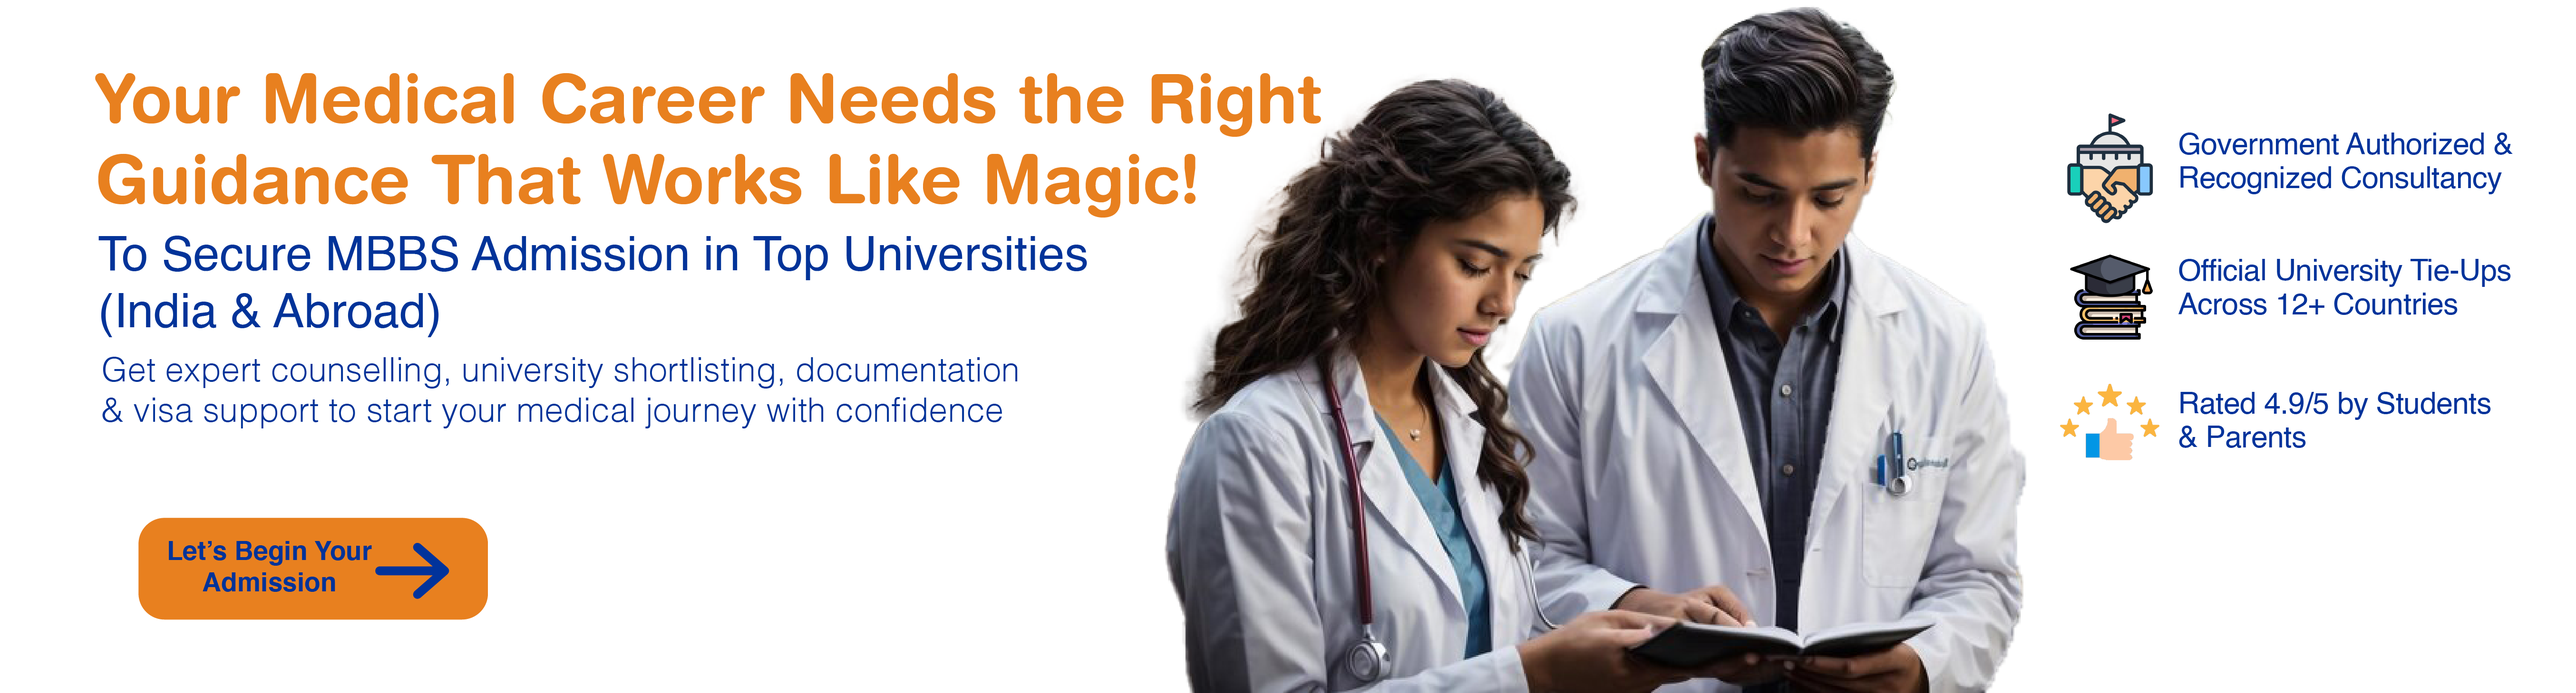
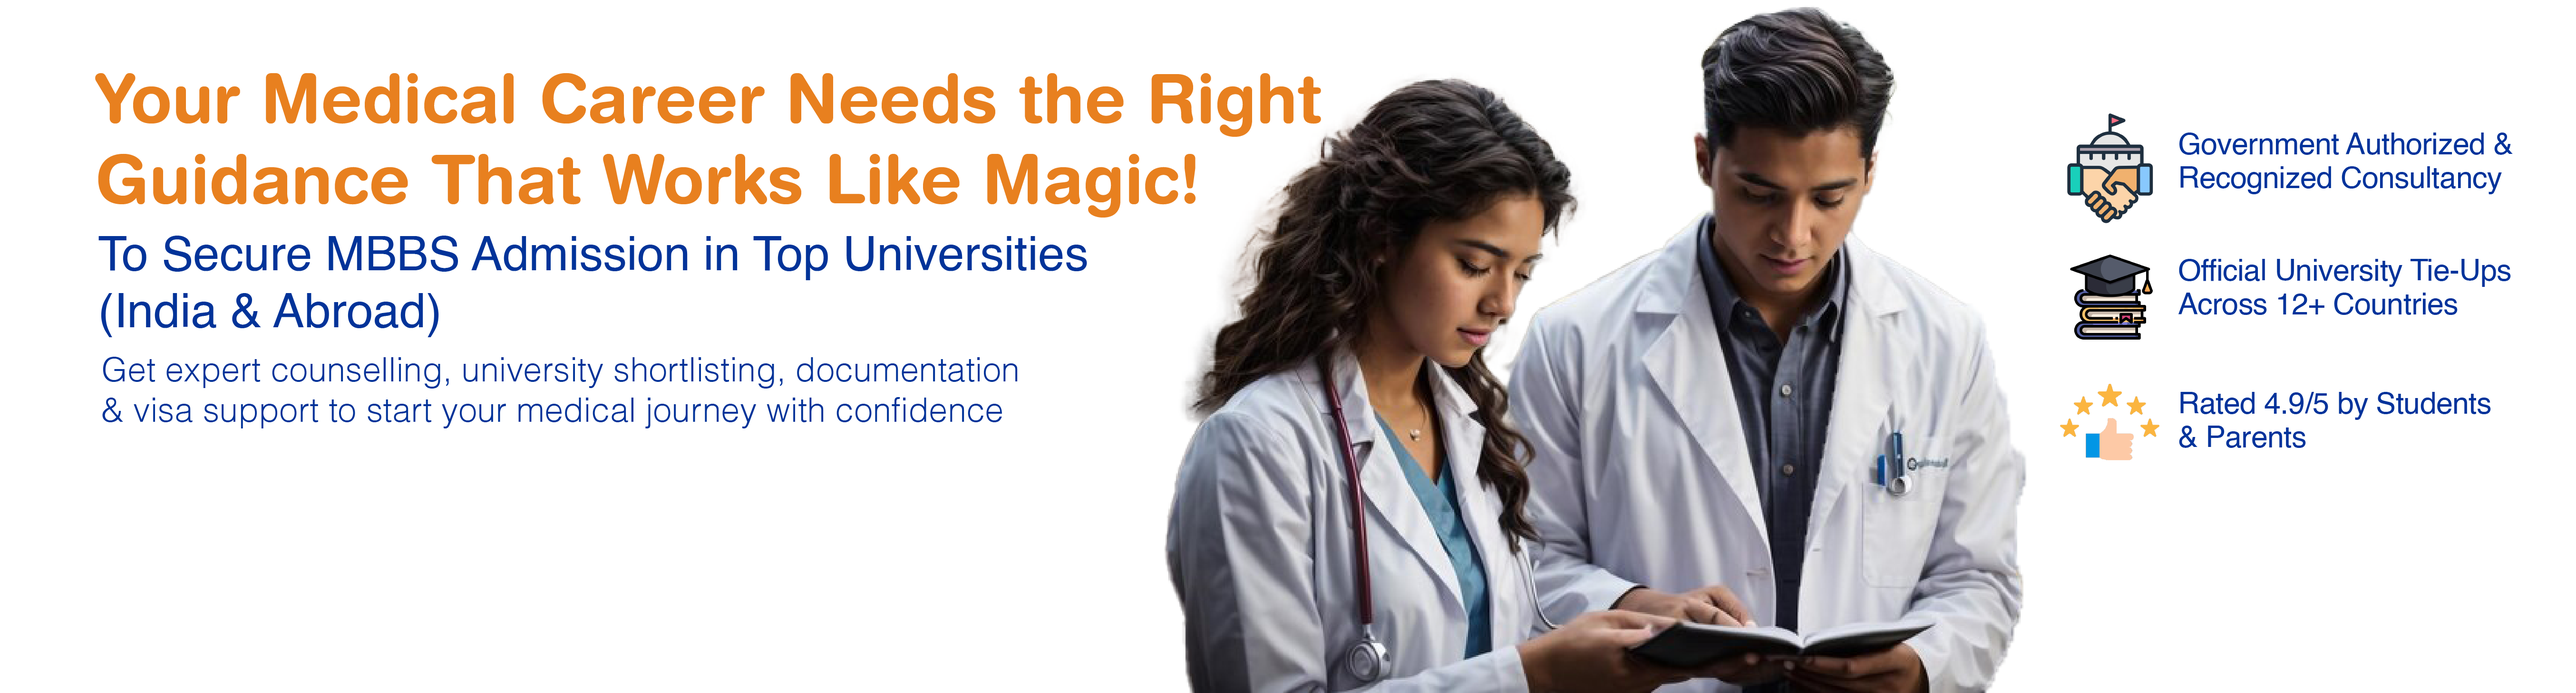
all cta add

Changed region(s): [[0.0312, 0.7402, 0.1872, 0.8944]]

diff --git a/src/components/home/medicalCareer.jsx b/src/components/home/medicalCareer.jsx
@@ -1,13 +1,101 @@
+import { ArrowBigLeft, ArrowBigRight, ArrowRight, ArrowUpRightFromSquare } from 'lucide-react'
+import Link from 'next/link'
 import React from 'react'
 
 const MedicalCareer = () => {
   return (
-    <div className='w-full mb-6'>
-    <div className='mx-auto w-full max-w-7xl px-4 '>
-    <img src="/assets/img/3-final-01.png" alt="" className='rounded-xl border border-border' />
-    </div>
-      
-    </div>
+  <main className="min-h-screen bg-gradient-to-b from-sky-100 to-white p-4 md:p-8">
+      <div className="mx-auto max-w-7xl">
+        <div className="relative flex flex-col lg:flex-row items-center justify-between bg-white rounded-3xl shadow-sm p-6 md:p-10 lg-px-10 lg:pb-0 lg-pt-10">
+          {/* Left Content */}
+          <div className="flex-1 max-w-xl z-10">
+            <h1 className="text-3xl md:text-3xl font-bold text-secondary leading-tight mb-4">
+              Your Medical Career Needs the Right Guidance That Works Like Magic!
+            </h1>
+            <h2 className="text-xl md:text-2xl font-semibold text-blue-800 mb-3">
+              To Secure MBBS Admission in Top Universities (India & Abroad)
+            </h2>
+            <p className="text-gray-500 mb-6 leading-relaxed">
+              Get expert counselling, university shortlisting, documentation & visa support to start your medical
+              journey with confidence
+            </p>
+            <Link href="/services/admissions" className="inline-flex items-center gap-2 bg-secondary hover:bg-orange-600 text-white font-medium px-6 py-3 rounded-full transition-colors">
+              {"Let's Begin Your Admission"}
+              <ArrowRight className="w-5 h-5" />
+            </Link>
+          </div>
+
+          {/* Center Image */}
+          <div className="flex-1 flex justify-between my-8 lg:my-0">
+            <img
+              src="/assets/img/nbnb.png"
+              alt="Medical students studying together"
+              className="w-full max-w-md object-contain"
+            />
+          </div>
+
+
+
+          {/* Right Features */}
+          <div className="flex flex-col gap-6  lg:right-8 lg:top-1/2 lg:-translate-y-1/2">
+            {/* Feature 1 */}
+            <div className="flex items-center gap-3">
+              <div className="w-12 h-12 flex items-center justify-center">
+                <svg viewBox="0 0 64 64" className="w-12 h-12">
+                  <circle cx="20" cy="28" r="8" fill="#FFB347" />
+                  <circle cx="44" cy="28" r="8" fill="#4A90D9" />
+                  <path d="M28 36 L36 44 L28 52" stroke="#FFB347" strokeWidth="3" fill="none" />
+                  <path d="M36 36 L28 44 L36 52" stroke="#4A90D9" strokeWidth="3" fill="none" />
+                </svg>
+              </div>
+              <p className="text-sm font-medium text-blue-800 leading-tight">
+                Government Authorized &<br />
+                Recognized Consultancy
+              </p>
+            </div>
+
+            {/* Feature 2 */}
+            <div className="flex items-center gap-3">
+              <div className="w-12 h-12 flex items-center justify-center">
+                <svg viewBox="0 0 64 64" className="w-12 h-12">
+                  <rect x="16" y="40" width="32" height="6" fill="#8B4513" />
+                  <rect x="18" y="34" width="28" height="6" fill="#4A90D9" />
+                  <rect x="20" y="28" width="24" height="6" fill="#FFB347" />
+                  <path d="M32 8 L24 20 L40 20 Z" fill="#1E3A5F" />
+                  <rect x="30" y="20" width="4" height="8" fill="#1E3A5F" />
+                </svg>
+              </div>
+              <p className="text-sm font-medium text-blue-800 leading-tight">
+                Official University Tie-Ups
+                <br />
+                Across 12+ Countries
+              </p>
+            </div>
+
+            {/* Feature 3 */}
+            <div className="flex items-center gap-3">
+              <div className="w-12 h-12 flex items-center justify-center">
+                <svg viewBox="0 0 64 64" className="w-12 h-12">
+                  <text x="8" y="20" fontSize="14" fill="#FFB347">
+                    ★★★
+                  </text>
+                  <rect x="12" y="28" width="8" height="24" fill="#4A90D9" />
+                  <rect x="24" y="36" width="8" height="16" fill="#FFB347" />
+                  <rect x="36" y="32" width="8" height="20" fill="#E74C3C" />
+                  <circle cx="16" cy="24" r="4" fill="#FFB347" />
+                  <circle cx="28" cy="32" r="4" fill="#4A90D9" />
+                  <circle cx="40" cy="28" r="4" fill="#E74C3C" />
+                </svg>
+              </div>
+              <p className="text-sm font-medium text-blue-800 leading-tight">
+                Rated 4.9/5 by Students
+                <br />& Parents
+              </p>
+            </div>
+          </div>
+        </div>
+      </div>
+    </main>
   )
 }
 

diff --git a/src/components/home/extra.jsx b/src/components/home/extra.jsx
@@ -1,31 +1,31 @@
-import { ArrowRight } from 'lucide-react'
-import Link from 'next/link'
 import React from 'react'
 
-const Trusted = () => {
+const extra = () => {
   return (
-    <main className="min-h-screen bg-gradient-to-b from-sky-100 to-white p-4 md:p-8">
+    <div>
+      
+      <main className="min-h-screen bg-gradient-to-b from-sky-100 to-white p-4 md:p-8">
       <div className="mx-auto max-w-7xl">
         <div className="relative bg-white rounded-3xl shadow-lg overflow-hidden px-10 pt-10 ">
           {/* Content Container */}
-          <div className="flex flex-col lg:flex-row pb-">
+          <div className="flex flex-col lg:flex-row items-stretch">
             {/* Left Content */}
-            <div className="flex-1 z-10   pb-10">
+            <div className="flex-1 z-10 ">
               <p className="text-primary italic text-lg mb-4">All About Doctor – Global Medical Admission Program</p>
 
-              <h1 className="text-3xl md:text-4xl lg:text-3xl font-bold text-secondary leading-tight ">
+              <h1 className="text-3xl md:text-4xl lg:text-5xl font-bold text-secondary leading-tight mb-6">
                 {"India's Trusted MBBS Admission Guidance Platform"}
               </h1>
 
               <p className="text-primary text-lg mb-1">Secure admission in top medical universities</p>
-              <p className="text-primary text-lg ">In India & Abroad with expert counselling and full support</p>
+              <p className="text-primary text-lg mb-4">In India & Abroad with expert counselling and full support</p>
 
-              <p className="text-primary text-sm mb-2">
+              <p className="text-primary text-sm mb-4">
                 Start your MBBS journey with confidence, guidance & transparency
               </p>
 
-              <p className="text-secondary font-semibold text-sm mb-2">Get Admission Support For</p>
-              <p className="text-secondary text-sm mb-2">
+              <p className="text-orange-500 font-semibold text-sm mb-2">Get Admission Support For</p>
+              <p className="text-orange-500 text-sm mb-8">
                 Russia • Uzbekistan • Kazakhstan • Georgia • Nepal • Bangladesh • India & more
               </p>
 
@@ -87,18 +87,18 @@ const Trusted = () => {
             </div>
 
             {/* Center Image */}
-            <div className="flex-1 flex items-end justify-center relative ">
+            <div className="flex-1 flex items-end justify-center relative">
               <img src="/assets/img/Gemini_Generated.png" alt="Medical students" className="w-full max-w-lg object-contain" />
             </div>
 
             {/* Right Content */}
-            <div className="lg:w-72 p-8 flex flex-col items-center justify-center gap-6 ">
+            <div className="lg:w-72 p-8 flex flex-col items-center justify-center gap-6">
               {/* Orange Starburst Badge */}
               <div className="relative">
                 <svg viewBox="0 0 200 200" className="w-44 h-44">
                   <path
                     d="M100 10 L115 40 L145 25 L140 58 L175 60 L155 85 L190 100 L155 115 L175 140 L140 142 L145 175 L115 160 L100 190 L85 160 L55 175 L60 142 L25 140 L45 115 L10 100 L45 85 L25 60 L60 58 L55 25 L85 40 Z"
-                    fill="#f68b1e"
+                    fill="#F97316"
                   />
                   <text x="100" y="75" textAnchor="middle" fill="white" fontSize="16" fontStyle="italic">
                     Starting From
@@ -113,23 +113,17 @@ const Trusted = () => {
               </div>
 
               <div className="text-center">
-                <h2 className="text-2xl md:text-3xl font-bold text-secondary mb-2">ENROLL NOW</h2>
+                <h2 className="text-2xl md:text-3xl font-bold text-orange-500 mb-2">ENROLL NOW</h2>
                 <p className="text-gray-600 text-sm">& take the first step towards your</p>
                 <p className="text-gray-600 text-sm">medical career</p>
               </div>
-
-               <Link href="/services/admissions" className="inline-flex items-center gap-2 bg-secondary hover:bg-orange-600 text-white  px-3 py-2 rounded-full transition-colors text-[12px] ">
-          {"Let's Begin Your Admission"}
-          <ArrowRight className="w-5 h-5" />
-        </Link>
             </div>
           </div>
         </div>
       </div>
     </main>
-
-
+    </div>
   )
 }
 
-export default Trusted
+export default extra

diff --git a/src/components/home/HeroSection.jsx b/src/components/home/HeroSection.jsx
@@ -164,7 +164,7 @@ export default function HeroSection() {
             <div className="grid grid-cols-1 md:grid-cols-2">
               
               {/* LEFT SIDE EXACT AS YOUR DESIGN */}
-              <div className="p-8 flex flex-col justify-between">
+              <div className="p-8 flex flex-col justify-between bg-[#eaf6ff]">
                 
                 {/* Bullet Points */}
                 <div className="space-y-4 text-[#003b99] font-semibold text-sm">
@@ -234,7 +234,7 @@ export default function HeroSection() {
                   <input
                     type="text"
                     placeholder="Name"
-                    className="w-full border border-primary py-2 px-3 rounded-md text-[#003b99] "
+                    className="w-full border border-primary py-2 px-3 rounded-md text-[#003b99] font-semibold"
                   />
                   <input
                     type="text"

diff --git a/src/components/home/download-app-section.jsx b/src/components/home/download-app-section.jsx
@@ -1,5 +1,5 @@
 import { Button } from "@/components/ui/button"
-import { Smartphone, Download, Star } from "lucide-react"
+import { Smartphone, Download, Star, ArrowUpRightFromSquare } from "lucide-react"
 
 export default function DownloadAppSection() {
   return (
@@ -51,8 +51,10 @@ export default function DownloadAppSection() {
           <div className="flex justify-center">
             <div className="relative">
               <div className=" p-2 shadow-2xl">
-                <div className="rounded-2xl overflow-hidden">
-                  <img src="https://media.edvoy.com/home-app-image-d11b21d83d.png?w=384&q=80" alt="Wedding Planning App" className="w-100 h-auto" />
+                <div className="rounded-2xl overflow-hidden ">
+                  <img src="/assets/img/4.png" alt="Wedding Planning App" className="w-100 h-auto " />
+
+
                 </div>
               </div>
             </div>

diff --git a/src/components/home/Video.jsx b/src/components/home/Video.jsx
@@ -153,10 +153,10 @@ export default function VideoSection() {
 
           {/* More rows */}
           <div className="col-span-12 grid grid-cols-2 gap-4 md:grid-cols-3 md:gap-6">
-            {videos?.map((v)=>{
+            {videos?.map((v,i)=>{
               return(
                       
-    <div className="insta-wrapper">
+    <div className="insta-wrapper" key={i}>
   <blockquote
     className="instagram-media"
     data-instgrm-permalink={v.thumb}

diff --git a/src/app/globals.css b/src/app/globals.css
@@ -122,5 +122,5 @@
 }
 @theme{
   --color-primary: #01349e !important;
-  --color-secondary:   #ee8019 !important;
+  --color-secondary:   #f68b1e !important;
 }
